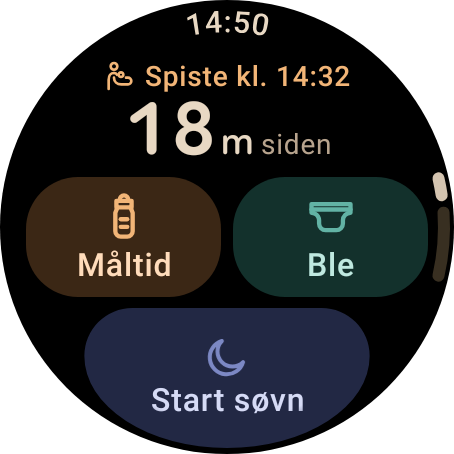
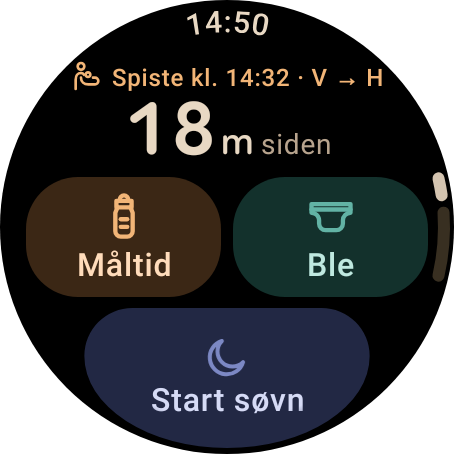
Show the breast order of the last feed
Every place that shows the last feed now shows the order of the breasts
when one was recorded, so you know which side to start on next:

- Phone Lamp: "ago · 14:32 · Left → Right", shortening to "L → R", then
  dropping "ago" when space is tight.
- Phone since-row while asleep: "· 01:40 · L → R".
- Widget: "Fed at 01:40 · L → R".
- Watch status block and asleep card: "Fed at 14:32 · L → R". The label
  now steps down to fit inside the round edge (also on small watches).
- TalkBack: "Last feed, breast, left then right, ...".

Claude-Session: https://claude.ai/code/session_01XDhkt28s4qxhgmUXYuk5QP

Changed region(s): [[0.1542, 0.1233, 0.8634, 0.2159]]

diff --git a/app/src/main/kotlin/com/ffmathy/pooparazzi/phone/ui/home/HomeLamp.kt b/app/src/main/kotlin/com/ffmathy/pooparazzi/phone/ui/home/HomeLamp.kt
@@ -192,19 +192,31 @@ private fun lampTexts(lamp: LampState, zone: ZoneId, size: Dp, formatters: Forma
                 LampTexts(XIcons.feed, label, null, stringResource(R.string.lamp_no_feed_hero), none, stringResource(R.string.spoken_pair, label, none))
             } else {
                 val type = feed.feedType
-                val typeLabel = type?.let { feedTypeLabel(it) }
+                val detail = feedDetail(feed)
+                val shortDetail = feedDetail(feed, short = true)
+                val spokenDetail = spokenFeedDetail(feed, clock.locale)
                 val time = clock.format(feed.startMillis, zone)
                 val under = DurationFormatter.isUnderAMinute(since)
                 val sub = if (under) {
                     relative.at(feed.startMillis, zone)
                 } else {
-                    // "ago · 12:22 · Formula"; the type word is dropped when it would exceed the Lamp chord, and a feed
-                    // logged with just its time has none.
+                    // "ago · 12:22 · Formula", or the breast order "ago · 12:22 · Left → Right". When that would exceed
+                    // the Lamp chord the order shortens to "L → R", then drops "ago" (the order is what the next feed
+                    // starts from); a type word is simply dropped. A feed logged with just its time has neither.
                     val base = relative.agoWord + DOT_SEPARATOR + time
-                    if (typeLabel == null) {
+                    if (detail == null) {
                         base
                     } else {
-                        fitOrFallback(base + DOT_SEPARATOR + typeLabel, base, PhoneType.dataMedium, size * HomeLampDefaults.SUB_CHORD)
+                        fitFirst(
+                            listOfNotNull(
+                                base + DOT_SEPARATOR + detail,
+                                shortDetail?.let { base + DOT_SEPARATOR + it },
+                                shortDetail?.let { time + DOT_SEPARATOR + it },
+                                base,
+                            ),
+                            PhoneType.dataMedium,
+                            size * HomeLampDefaults.SUB_CHORD,
+                        )
                     }
                 }
                 LampTexts(
@@ -213,7 +225,7 @@ private fun lampTexts(lamp: LampState, zone: ZoneId, size: Dp, formatters: Forma
                     heroParts = if (under) null else duration.parts(since),
                     heroWord = if (under) justNow else null,
                     sub = sub,
-                    spoken = if (typeLabel == null) {
+                    spoken = if (spokenDetail == null) {
                         stringResource(
                             R.string.spoken_running,
                             stringResource(CoreR.string.spoken_last_feed),
@@ -224,7 +236,7 @@ private fun lampTexts(lamp: LampState, zone: ZoneId, size: Dp, formatters: Forma
                         stringResource(
                             R.string.spoken_last_entry,
                             stringResource(CoreR.string.spoken_last_feed),
-                            typeLabel.lowercase(clock.locale),
+                            spokenDetail,
                             relative.agoSpoken(since),
                             relative.at(feed.startMillis, zone),
                         )
@@ -264,15 +276,15 @@ private fun runningTexts(
     )
 }
 
-/** [preferred] when it fits in [maxWidth] at [style], otherwise [fallback]. */
+/** The first of [candidates] that fits on one line in [maxWidth] at [style], else the last. */
 @Composable
-private fun fitOrFallback(preferred: String, fallback: String, style: TextStyle, maxWidth: Dp): String {
+private fun fitFirst(candidates: List<String>, style: TextStyle, maxWidth: Dp): String {
     val measurer = rememberTextMeasurer()
     val density = LocalDensity.current
-    val fits = remember(preferred, style, maxWidth, density) {
-        measurer.measure(preferred, style, maxLines = 1).size.width <= with(density) { maxWidth.toPx() }
+    return remember(candidates, style, maxWidth, density) {
+        val max = with(density) { maxWidth.toPx() }
+        candidates.firstOrNull { measurer.measure(it, style, maxLines = 1).size.width <= max } ?: candidates.last()
     }
-    return if (fits) preferred else fallback
 }
 
 /**

diff --git a/wear/src/main/kotlin/com/ffmathy/pooparazzi/wear/main/MainScreen.kt b/wear/src/main/kotlin/com/ffmathy/pooparazzi/wear/main/MainScreen.kt
@@ -98,6 +98,7 @@ import com.ffmathy.pooparazzi.wear.ui.diaperStatusLabel
 import com.ffmathy.pooparazzi.wear.ui.durationAndSince
 import com.ffmathy.pooparazzi.wear.ui.eventButtonColors
 import com.ffmathy.pooparazzi.wear.ui.events
+import com.ffmathy.pooparazzi.wear.ui.feedSideSuffix
 import com.ffmathy.pooparazzi.wear.ui.spokenFeedType
 import com.ffmathy.pooparazzi.wear.ui.isSmallWatch
 import com.ffmathy.pooparazzi.wear.ui.labelAtTime
@@ -245,7 +246,8 @@ private fun StatusBlock(state: MainUiState, f: Formatters, small: Boolean) {
     val feed = events().feed
     val lastFeed = state.lastFeed
     val textColor = if (ambient) WatchAmbient.content else feed.text
-    val label = if (lastFeed != null) labelAtTime(stringResource(CoreR.string.status_fed), lastFeed.startMillis, f)
+    // "Fed at 12:22 · L → R": the breast order is what the next feed starts from.
+    val label = if (lastFeed != null) labelAtTime(stringResource(CoreR.string.status_fed), lastFeed.startMillis, f) + feedSideSuffix(lastFeed)
     else stringResource(R.string.status_no_feed_yet)
     val spoken = if (lastFeed != null) {
         f.spokenAgo(stringResource(CoreR.string.spoken_last_feed), spokenFeedType(lastFeed), lastFeed.startMillis, state.now)
@@ -265,7 +267,7 @@ private fun StatusBlock(state: MainUiState, f: Formatters, small: Boolean) {
             )
             Spacer(Modifier.width(4.dp))
             // Steps down rather than running past the round edge at very large font scales.
-            AutoSizeLine(label, MaterialTheme.typography.titleSmall, textColor, minSize = 8, modifier = Modifier.widthIn(max = STATUS_LABEL_MAX_WIDTH))
+            AutoSizeLine(label, MaterialTheme.typography.titleSmall, textColor, minSize = 8, modifier = Modifier.widthIn(max = if (small) STATUS_LABEL_MAX_WIDTH_SMALL else STATUS_LABEL_MAX_WIDTH))
         }
         if (lastFeed != null) {
             val since = clockDurationMillis(lastFeed.startMillis, state.now)
@@ -344,8 +346,14 @@ private fun FeedDiaperGroup(actions: MainActions, small: Boolean, modifier: Modi
  */
 private val TIME_TEXT_GROWTH_PER_SCALE = 8.dp
 
-/** The status label's room at y 30–46 on the reference screen (the chord there, less the 20 dp icon). */
-private val STATUS_LABEL_MAX_WIDTH = 164.dp
+/**
+ * The status label's room at y 30–46 on the reference screen (the chord there, less the 20 dp icon). A long label
+ * such as "Fed at 14:32 · L → R" steps down to fit it.
+ */
+private val STATUS_LABEL_MAX_WIDTH = 140.dp
+
+/** [STATUS_LABEL_MAX_WIDTH] on a small (192 dp) watch, whose label sits at y 20–36. */
+private val STATUS_LABEL_MAX_WIDTH_SMALL = 108.dp
 
 /** Whether [text] fits on one line of [width] in [style] at the current font scale. */
 @Composable
@@ -669,7 +677,7 @@ private fun statusCards(state: MainUiState, f: Formatters): List<CardModel> {
         state.lastFeed?.let { feed ->
             cards += CardModel(
                 "last-feed", feed, TimeField.START, XIcons.forFeedType(feed.feedType), events.feed.strong,
-                lastFedWord, f.agoAndClock(feed.startMillis, now),
+                lastFedWord, f.agoAndClock(feed.startMillis, now) + feedSideSuffix(feed),
                 f.spokenAgo(lastFeedSpoken, spokenFeedType(feed), feed.startMillis, now),
             )
         }

diff --git a/app/src/main/kotlin/com/ffmathy/pooparazzi/phone/ui/home/SinceRows.kt b/app/src/main/kotlin/com/ffmathy/pooparazzi/phone/ui/home/SinceRows.kt
@@ -34,6 +34,8 @@ import androidx.compose.ui.text.withStyle
 import androidx.compose.ui.unit.dp
 import androidx.compose.ui.unit.em
 import androidx.compose.ui.unit.sp
+import com.ffmathy.pooparazzi.core.format.Labels
+import com.ffmathy.pooparazzi.core.model.FeedType
 import com.ffmathy.pooparazzi.core.format.Formatters
 import com.ffmathy.pooparazzi.core.model.DiaperKind
 import com.ffmathy.pooparazzi.core.ui.icons.XIcon
@@ -131,11 +133,15 @@ private fun sinceRowText(row: SinceRow, zone: ZoneId, formatters: Formatters): S
         )
         is SinceRow.LastFed -> {
             val type = row.feed.feedType
+            // The breast order rides after the time ("· 01:40 · L → R"), short so the row stays on one line: it is what
+            // the next feed starts from.
+            val side = row.feed.breastSide?.takeIf { type == FeedType.BREAST }?.let { stringResource(Labels.sideShort(it)) }
+            val spokenDetail = spokenFeedDetail(row.feed, clock.locale)
             SinceRowText(
                 icon = TintedIcon(XIcons.forFeedType(type), events.feed.strong),
                 lead = stringResource(R.string.join_space, stringResource(CoreR.string.status_last_fed), relative.ago(row.elapsedMillis)),
-                meta = dotted(clock.format(row.feed.startMillis, zone)),
-                spoken = if (type == null) {
+                meta = dotted(clock.format(row.feed.startMillis, zone)) + (side?.let(::dotted) ?: ""),
+                spoken = if (spokenDetail == null) {
                     stringResource(
                         R.string.spoken_running,
                         stringResource(CoreR.string.spoken_last_feed),
@@ -146,7 +152,7 @@ private fun sinceRowText(row: SinceRow, zone: ZoneId, formatters: Formatters): S
                     stringResource(
                         R.string.spoken_last_entry,
                         stringResource(CoreR.string.spoken_last_feed),
-                        feedTypeLabel(type).lowercase(clock.locale),
+                        spokenDetail,
                         relative.agoSpoken(row.elapsedMillis),
                         relative.at(row.feed.startMillis, zone),
                     )

diff --git a/wear/src/main/kotlin/com/ffmathy/pooparazzi/wear/ui/WatchText.kt b/wear/src/main/kotlin/com/ffmathy/pooparazzi/wear/ui/WatchText.kt
@@ -16,6 +16,7 @@ import com.ffmathy.pooparazzi.core.model.Entry
 import com.ffmathy.pooparazzi.core.model.EntryKind
 import com.ffmathy.pooparazzi.core.model.clockDurationMillis
 import com.ffmathy.pooparazzi.core.model.diaperKind
+import com.ffmathy.pooparazzi.core.model.isBreastfeed
 import com.ffmathy.pooparazzi.wear.R
 import java.time.Instant
 import java.time.LocalDate
@@ -42,12 +43,25 @@ fun feedTypeLabel(entry: Entry, compact: Boolean = false): String =
     stringResource(Labels.feedType(entry.feedType, compact))
 
 /**
- * The feed type for a spoken sentence, or null for a feed logged without one, so TalkBack reads
- * "Last feed, 2 hours ago" rather than "Last feed, feed, 2 hours ago" (as the phone does).
+ * The feed type for a spoken sentence, with the breast order when one was recorded ("Breast, left then right"), or
+ * null for a feed logged without a type, so TalkBack reads "Last feed, 2 hours ago" rather than "Last feed, feed,
+ * 2 hours ago" (as the phone does).
  */
 @Composable
 @ReadOnlyComposable
-fun spokenFeedType(entry: Entry): String? = entry.feedType?.let { stringResource(Labels.feedType(it)) }
+fun spokenFeedType(entry: Entry): String? {
+    val type = entry.feedType?.let { stringResource(Labels.feedType(it)) } ?: return null
+    val side = feedSide(entry) ?: return type
+    return stringResource(R.string.spoken_pair, type, stringResource(SpokenLabels.side(side)))
+}
+
+/** The breast order of a breastfeed, or null (none recorded, or not a breastfeed). */
+fun feedSide(entry: Entry): BreastSide? = entry.breastSide?.takeIf { entry.isBreastfeed }
+
+/** " · L → R" after a last-feed line when a breast order was recorded; empty otherwise. */
+@Composable
+@ReadOnlyComposable
+fun feedSideSuffix(entry: Entry): String = feedSide(entry)?.let { DOT_SEPARATOR + stringResource(Labels.sideShort(it)) } ?: ""
 
 /** Receipts and History: "Pee", "Poop", "Pee + poop", "Diaper" (a plain change). */
 @Composable

diff --git a/app/src/main/kotlin/com/ffmathy/pooparazzi/phone/ui/home/HomeText.kt b/app/src/main/kotlin/com/ffmathy/pooparazzi/phone/ui/home/HomeText.kt
@@ -12,6 +12,9 @@ import com.ffmathy.pooparazzi.core.model.Entry
 import com.ffmathy.pooparazzi.core.model.EntryKind
 import com.ffmathy.pooparazzi.core.model.FeedType
 import com.ffmathy.pooparazzi.core.model.diaperKind
+import com.ffmathy.pooparazzi.core.model.isBreastfeed
+import com.ffmathy.pooparazzi.phone.ui.history.spokenSide
+import java.util.Locale
 import com.ffmathy.pooparazzi.core.ui.icons.XIcons
 import com.ffmathy.pooparazzi.core.ui.icons.rememberBothIcon
 import com.ffmathy.pooparazzi.core.ui.tokens.EventPalette
@@ -44,6 +47,26 @@ fun entryIcon(entry: Entry, events: EventPalette): TintedIcon = when (entry.kind
 @Composable
 @ReadOnlyComposable
 fun feedTypeLabel(type: FeedType?, compact: Boolean = false): String = stringResource(Labels.feedType(type, compact))
+
+/**
+ * What a feed was, for the last-feed status lines: the breast order when one was recorded ("Left → Right", or "L → R"
+ * where [short]), else the type word ("Formula"); null for a feed logged with just its time.
+ */
+@Composable
+@ReadOnlyComposable
+fun feedDetail(feed: Entry, short: Boolean = false): String? =
+    feed.breastSide?.takeIf { feed.isBreastfeed }?.let { stringResource(if (short) Labels.sideShort(it) else Labels.side(it)) }
+        ?: feed.feedType?.let { feedTypeLabel(it) }
+
+/** [feedDetail] for TalkBack, in lower case: "breast, left then right", "formula"; null with no type. */
+@Composable
+@ReadOnlyComposable
+fun spokenFeedDetail(feed: Entry, locale: Locale): String? {
+    val type = feed.feedType ?: return null
+    val side = feed.breastSide?.takeIf { feed.isBreastfeed }
+    val words = if (side == null) feedTypeLabel(type) else stringResource(R.string.spoken_pair, feedTypeLabel(type), spokenSide(side))
+    return words.lowercase(locale)
+}
 
 /** "Pee", "Poop", "Pee + poop", "Diaper" (receipts). */
 @Composable

diff --git a/app/src/main/kotlin/com/ffmathy/pooparazzi/phone/widget/WidgetUi.kt b/app/src/main/kotlin/com/ffmathy/pooparazzi/phone/widget/WidgetUi.kt
@@ -35,7 +35,10 @@ import androidx.glance.text.TextStyle
 import androidx.glance.unit.ColorProvider
 import com.ffmathy.pooparazzi.core.format.ClockFormatter
 import com.ffmathy.pooparazzi.core.format.LabelFormatter
+import com.ffmathy.pooparazzi.core.format.DOT_SEPARATOR
 import com.ffmathy.pooparazzi.core.model.DiaperKind
+import com.ffmathy.pooparazzi.core.model.Entry
+import com.ffmathy.pooparazzi.core.model.isBreastfeed
 import com.ffmathy.pooparazzi.core.ui.icons.XDrawables
 import com.ffmathy.pooparazzi.core.ui.tokens.EventColors
 import com.ffmathy.pooparazzi.core.ui.tokens.XPalette
@@ -96,7 +99,9 @@ internal class WidgetStrings(private val context: Context, private val zone: Zon
     private fun since(label: String, millis: Long): String =
         string(R.string.join_space, label, string(CoreR.string.rel_since_format, time(millis)))
 
-    fun fedAt(millis: Long): String = atTime(string(CoreR.string.status_fed), millis)
+    /** "Fed at 12:22", plus the breast order " · L → R" when one was recorded. */
+    fun fedAt(feed: Entry): String = atTime(string(CoreR.string.status_fed), feed.startMillis) +
+        (feed.breastSide?.takeIf { feed.isBreastfeed }?.let { DOT_SEPARATOR + labels.sideShort(it) } ?: "")
     fun diaperAt(kind: DiaperKind, millis: Long): String = atTime(labels.diaperKindStatus(kind), millis)
     fun noFeeds(): String = string(R.string.lamp_no_feed)
     fun asleepSince(millis: Long): String = since(string(CoreR.string.status_asleep), millis)

diff --git a/app/src/test/kotlin/com/ffmathy/pooparazzi/phone/HomeSemanticsTest.kt b/app/src/test/kotlin/com/ffmathy/pooparazzi/phone/HomeSemanticsTest.kt
@@ -76,11 +76,25 @@ class HomeSemanticsTest {
     fun theLampAndSinceRowsHaveSpokenForms() {
         show(HomeSamples.asleep())
         compose.onNodeWithContentDescription("Asleep, 1 hour 7 minutes, since 02:05").assertExists()
-        compose.onNodeWithContentDescription("Last feed, breast, 1 hour 32 minutes ago, at 01:40")
+        compose.onNodeWithContentDescription("Last feed, breast, left then right, 1 hour 32 minutes ago, at 01:40")
             .assert(SemanticsMatcher("click label Edit") { it.config[SemanticsActions.OnClick].label == "Edit" })
             .performClick()
         compose.onNodeWithContentDescription("Last diaper, pee, 1 hour 20 minutes ago, at 01:52").assertExists()
         assertEquals(listOf("edit:sample-breast-0140"), calls)
+    }
+
+    @Test
+    fun theLastFeedShowsTheBreastOrder() {
+        // Asleep: since-row 1 carries the order after the time.
+        show(HomeSamples.asleep())
+        compose.onNodeWithText("01:40 · L\u00A0→\u00A0R", substring = true, useUnmergedTree = true).assertExists()
+    }
+
+    @Test
+    fun theLampShowsTheBreastOrderOfTheLastFeed() {
+        show(HomeSamples.breastLogged())
+        compose.onNodeWithText("ago · 14:32 · Left → Right", useUnmergedTree = true).assertExists()
+        compose.onNodeWithContentDescription("Last feed, breast, left then right, 18 minutes ago, at 14:32").assertExists()
     }
 
     @Test

diff --git a/core/src/main/kotlin/com/ffmathy/pooparazzi/core/format/LabelFormatter.kt b/core/src/main/kotlin/com/ffmathy/pooparazzi/core/format/LabelFormatter.kt
@@ -64,6 +64,14 @@ object Labels {
         BreastSide.RIGHT_THEN_LEFT -> R.string.side_right_then_left
     }
 
+    /** [side] for tight places: "Left", "Right", "L → R", "R → L" (Danish "V → H"). */
+    @StringRes fun sideShort(side: BreastSide): Int = when (side) {
+        BreastSide.LEFT -> R.string.side_left
+        BreastSide.RIGHT -> R.string.side_right
+        BreastSide.LEFT_THEN_RIGHT -> R.string.side_short_left_then_right
+        BreastSide.RIGHT_THEN_LEFT -> R.string.side_short_right_then_left
+    }
+
     @StringRes fun poopColor(color: PoopColor): Int = when (color) {
         PoopColor.YELLOW -> R.string.poop_colour_yellow
         PoopColor.GREEN -> R.string.poop_colour_green
@@ -124,6 +132,9 @@ class LabelFormatter(private val strings: StringResolver) {
     fun feedType(type: FeedType?, compact: Boolean = false): String = strings.string(Labels.feedType(type, compact))
 
     fun side(side: BreastSide): String = strings.string(Labels.side(side))
+
+    /** "Left", "Right", "L → R", "R → L". */
+    fun sideShort(side: BreastSide): String = strings.string(Labels.sideShort(side))
 
     /** The side, or "No side" when none was recorded. */
     fun sideOrNone(side: BreastSide?): String = side?.let(::side) ?: strings.string(R.string.side_none)

diff --git a/app/src/main/kotlin/com/ffmathy/pooparazzi/phone/ui/preview/HomeSamples.kt b/app/src/main/kotlin/com/ffmathy/pooparazzi/phone/ui/preview/HomeSamples.kt
@@ -30,7 +30,7 @@ object HomeSamples {
     /** 14:32, idle: "Last fed 2h 10m ago · 12:22 · Formula", Awake 1h 05m, Pee 48m ago, Today 5 · 4 · 2 · 7h 57m. */
     fun idle(): HomeUiState = build(SampleData.scenario(zone), SampleData.NOW_1432)
 
-    /** 03:12, asleep 1h 07m since 02:05; last fed 1h 32m ago · 01:40 · Breast. */
+    /** 03:12, asleep 1h 07m since 02:05; last fed 1h 32m ago · 01:40 · L → R. */
     fun asleep(): HomeUiState =
         build(SampleData.scenarioAt0312(zone), SampleData.NOW_0312, sync = SyncStatus.Synced(SampleData.SYNCED_0311))
 
@@ -46,7 +46,7 @@ object HomeSamples {
 
     /**
      * 14:50, a breast feed (Left → Right) just logged for 14:32 with the −15m chip from the Feed sheet opened at 14:47:
-     * "Last fed 18m ago · 14:32 · Breast" and the undo card "Breast logged · Left → Right".
+     * "Last fed 18m ago · 14:32 · Left → Right" and the undo card "Breast logged · Left → Right".
      */
     fun breastLogged(): HomeUiState {
         val feed = SampleData.recentBreastfeed(zone)

diff --git a/app/src/main/kotlin/com/ffmathy/pooparazzi/phone/widget/LogWidget.kt b/app/src/main/kotlin/com/ffmathy/pooparazzi/phone/widget/LogWidget.kt
@@ -161,7 +161,7 @@ private fun RowScope.StatusFacts(snapshot: WidgetSnapshot, strings: WidgetString
         // Narrow: the toggle row has no room for "Asleep since 02:05", so it moves up here (DESIGN_SPEC §10.11).
         sleepStart != null && !layout.wide -> Fact(XDrawables.sleepRunning, colors.sleep.strong, strings.asleepSince(sleepStart), colors)
         else -> {
-            val feedText = lastFeed?.let { strings.fedAt(it.startMillis) } ?: strings.noFeeds()
+            val feedText = lastFeed?.let { strings.fedAt(it) } ?: strings.noFeeds()
             Fact(XDrawables.forFeedType(lastFeed?.feedType), colors.feed.strong, feedText, colors)
             val diaper = snapshot.lastDiaper
             val kind = diaper?.let { DiaperKind.of(it.pee, it.poop) }

diff --git a/wear/src/test/kotlin/com/ffmathy/pooparazzi/wear/screenshots/WatchScreenshots.kt b/wear/src/test/kotlin/com/ffmathy/pooparazzi/wear/screenshots/WatchScreenshots.kt
@@ -176,6 +176,12 @@ abstract class WatchScreenshots(private val lang: String) {
     fun s16_mainIdleLargeFont() =
         capture("16-main-idle-large-font", SampleData.NOW_1432) { MainScreen(WearSamples.mainIdle(), MainActions()) }
 
+    /** The breast order of the last feed at 130 %: the label steps down inside the round edge. */
+    @Test
+    @Config(fontScale = 1.3f)
+    fun s16c_mainAfterBreastLargeFont() =
+        capture("16c-main-after-breast-large-font", SampleData.NOW_1450) { MainScreen(WearSamples.mainAfterBreastfeed(), MainActions()) }
+
     /** At 200 % the labels no longer fit side by side, so Feed and Diaper stack (and the hero scrolls). */
     @Test
     @Config(fontScale = 2.0f)

diff --git a/wear/src/test/kotlin/com/ffmathy/pooparazzi/wear/AccessibilityTest.kt b/wear/src/test/kotlin/com/ffmathy/pooparazzi/wear/AccessibilityTest.kt
@@ -93,6 +93,9 @@ class AccessibilityTest {
     fun afterABreastFeedMainStaysIdle() {
         show { MainScreen(WearSamples.mainAfterBreastfeed(), MainActions()) }
         compose.onNodeWithContentDescription("Start sleep").assertIsEnabled()
+        // The breast order of the last feed, shown and read.
+        compose.onNodeWithText("Fed at 14:32 · L\u00A0→\u00A0R", useUnmergedTree = true).assertExists()
+        compose.onNode(hasContentDescription("Last feed, breast, left then right, 18 minutes ago, at 14:32")).assertExists()
         compose.onAllNodes(hasContentDescription("End feed")).fetchSemanticsNodes().let { assert(it.isEmpty()) { "no End feed" } }
     }
 
